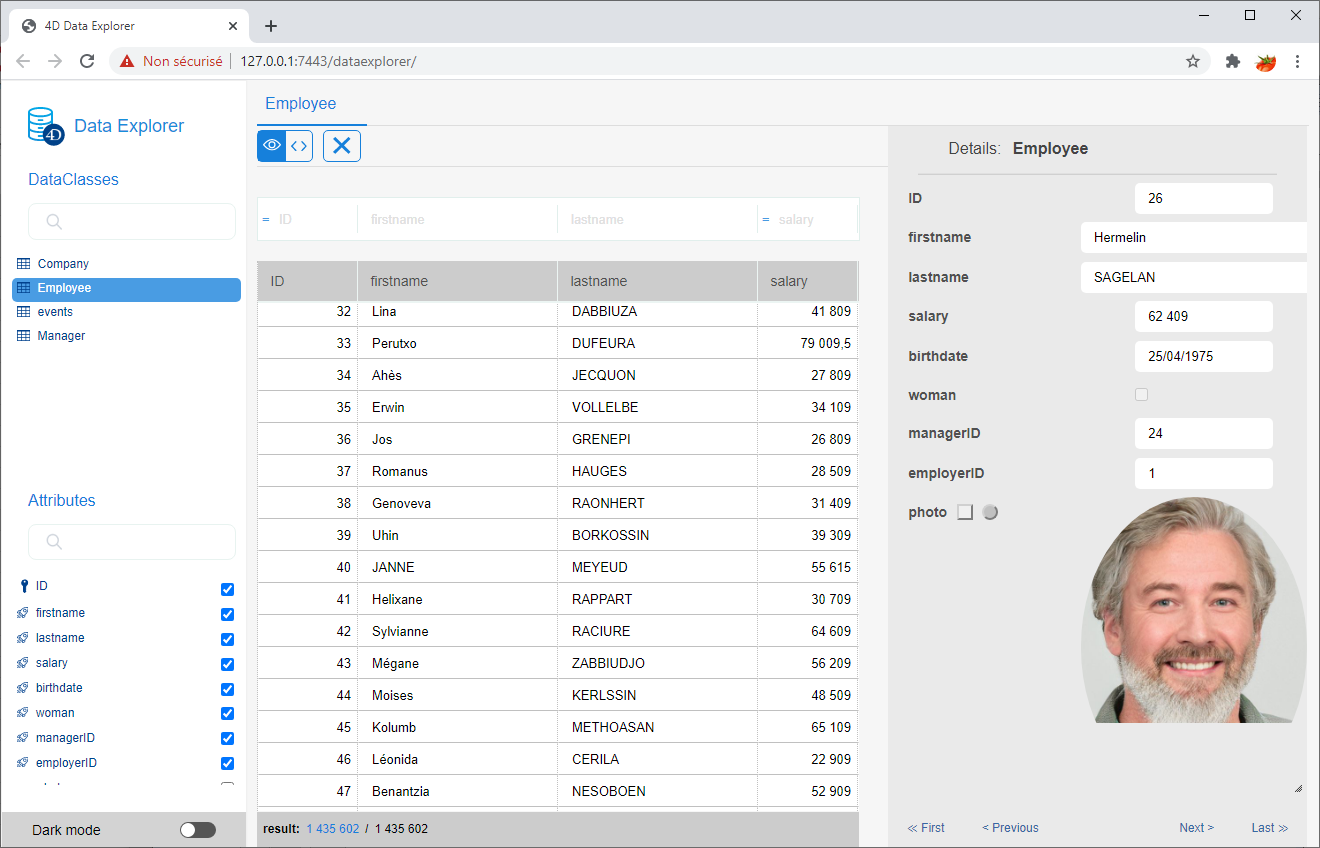
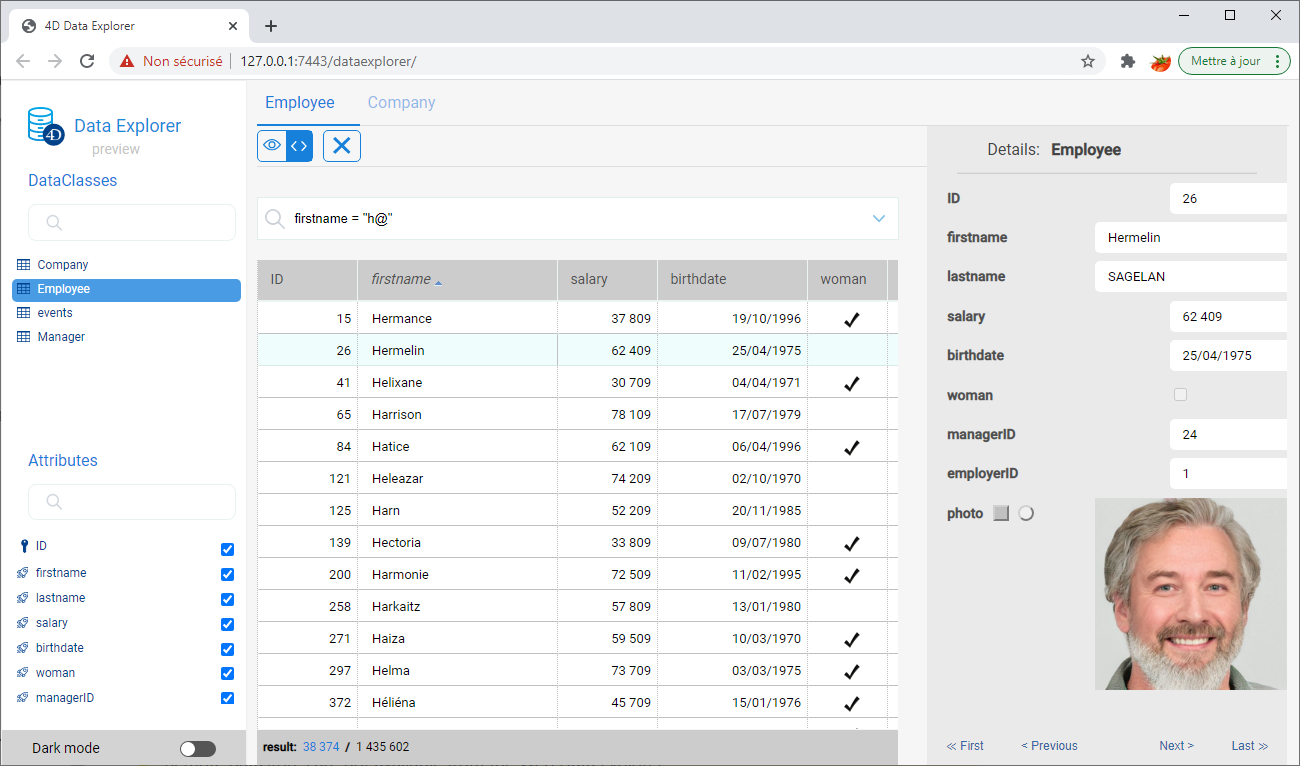
Automated build from branch refs/heads/master

diff --git a/en/Admin/dataExplorer.html b/en/Admin/dataExplorer.html
@@ -1,4 +1,4 @@
-<!DOCTYPE html><html lang="en"><head><meta name="docsearch:version" content="18 R6 BETA"/><meta charSet="utf-8"/><meta http-equiv="X-UA-Compatible" content="IE=edge"/><title>Web Data Explorer · 4D Documentation</title><meta name="viewport" content="width=device-width"/><meta name="generator" content="Docusaurus"/><meta name="description" content="The Data Explorer provides a web interface to view and query data in your project datastore. Using this tool, you can easily browse among all your entities and search, order, or filter attribute values. It helps you to control data and quickly identify issues at any steps of the development process. "/><meta name="docsearch:language" content="en"/><meta property="og:title" content="Web Data Explorer · 4D Documentation"/><meta property="og:type" content="website"/><meta property="og:url" content="https://doc4d.github.io/docs/index.html"/><meta property="og:description" content="The Data Explorer provides a web interface to view and query data in your project datastore. Using this tool, you can easily browse among all your entities and search, order, or filter attribute values. It helps you to control data and quickly identify issues at any steps of the development process. "/><meta property="og:image" content="https://doc4d.github.io/docs/img/logohome.png"/><meta name="twitter:card" content="summary"/><meta name="twitter:image" content="https://doc4d.github.io/docs/img/logohome.png"/><link rel="shortcut icon" href="/docs/img/4d.gif"/><link rel="stylesheet" href="https://cdn.jsdelivr.net/docsearch.js/1/docsearch.min.css"/><link rel="stylesheet" href="//cdnjs.cloudflare.com/ajax/libs/highlight.js/9.12.0/styles/routeros.min.css"/><script type="text/javascript" src="https://code.jquery.com/jquery-3.5.1.min.js"></script><script type="text/javascript" src="/docs/js/comment.js"></script><script type="text/javascript" src="https://buttons.github.io/buttons.js"></script><script type="text/javascript" src="https://buttons.github.io/buttons.js"></script><script type="text/javascript" src="https://cdnjs.cloudflare.com/ajax/libs/clipboard.js/2.0.0/clipboard.min.js"></script><script type="text/javascript" src="/docs/js/code-blocks-buttons.js"></script><script src="/docs/js/scrollSpy.js"></script><link rel="stylesheet" href="/docs/css/main.css"/><script src="/docs/js/codetabs.js"></script></head><body class="sideNavVisible separateOnPageNav"><div class="fixedHeaderContainer"><div class="headerWrapper wrapper"><header><a href="/docs/en"><h2 class="headerTitle">4D Documentation</h2></a><div class="navigationWrapper navigationSlider"><nav class="slidingNav"><ul class="nav-site nav-site-internal"><li class=""><a style="font-weight:bold" href="https://doc4d.github.io/docs" target="_self">v18 R6 BETA</a></li><li class=""><a href="https://doc4d.github.io/docs/Rx" target="_self">v18 R5</a></li><li class=""><a href="https://doc4d.github.io/docs/18" target="_self">v18</a></li><span><li><a id="languages-menu" href="#"><img class="languages-icon" src="/docs/img/language.svg" alt="Languages icon"/>English</a><div id="languages-dropdown" class="hide"><ul id="languages-dropdown-items"><li><a href="/docs/ja/Admin/dataExplorer.html">日本語</a></li><li><a href="/docs/de/Admin/dataExplorer.html">Deutsch</a></li><li><a href="/docs/es/Admin/dataExplorer.html">Español</a></li><li><a href="/docs/fr/Admin/dataExplorer.html">Français</a></li><li><a href="/docs/pt/Admin/dataExplorer.html">Português</a></li></ul></div></li><script>
+<!DOCTYPE html><html lang="en"><head><meta name="docsearch:version" content="18 R6 BETA"/><meta charSet="utf-8"/><meta http-equiv="X-UA-Compatible" content="IE=edge"/><title>Web Data Explorer · 4D Documentation</title><meta name="viewport" content="width=device-width"/><meta name="generator" content="Docusaurus"/><meta name="description" content="&gt; **Preview**: The Web Data Explorer is provided as a preview feature. Using this feature in a production purpose is not recommended; final implementation could be slightly different."/><meta name="docsearch:language" content="en"/><meta property="og:title" content="Web Data Explorer · 4D Documentation"/><meta property="og:type" content="website"/><meta property="og:url" content="https://doc4d.github.io/docs/index.html"/><meta property="og:description" content="&gt; **Preview**: The Web Data Explorer is provided as a preview feature. Using this feature in a production purpose is not recommended; final implementation could be slightly different."/><meta property="og:image" content="https://doc4d.github.io/docs/img/logohome.png"/><meta name="twitter:card" content="summary"/><meta name="twitter:image" content="https://doc4d.github.io/docs/img/logohome.png"/><link rel="shortcut icon" href="/docs/img/4d.gif"/><link rel="stylesheet" href="https://cdn.jsdelivr.net/docsearch.js/1/docsearch.min.css"/><link rel="stylesheet" href="//cdnjs.cloudflare.com/ajax/libs/highlight.js/9.12.0/styles/routeros.min.css"/><script type="text/javascript" src="https://code.jquery.com/jquery-3.5.1.min.js"></script><script type="text/javascript" src="/docs/js/comment.js"></script><script type="text/javascript" src="https://buttons.github.io/buttons.js"></script><script type="text/javascript" src="https://buttons.github.io/buttons.js"></script><script type="text/javascript" src="https://cdnjs.cloudflare.com/ajax/libs/clipboard.js/2.0.0/clipboard.min.js"></script><script type="text/javascript" src="/docs/js/code-blocks-buttons.js"></script><script src="/docs/js/scrollSpy.js"></script><link rel="stylesheet" href="/docs/css/main.css"/><script src="/docs/js/codetabs.js"></script></head><body class="sideNavVisible separateOnPageNav"><div class="fixedHeaderContainer"><div class="headerWrapper wrapper"><header><a href="/docs/en"><h2 class="headerTitle">4D Documentation</h2></a><div class="navigationWrapper navigationSlider"><nav class="slidingNav"><ul class="nav-site nav-site-internal"><li class=""><a style="font-weight:bold" href="https://doc4d.github.io/docs" target="_self">v18 R6 BETA</a></li><li class=""><a href="https://doc4d.github.io/docs/Rx" target="_self">v18 R5</a></li><li class=""><a href="https://doc4d.github.io/docs/18" target="_self">v18</a></li><span><li><a id="languages-menu" href="#"><img class="languages-icon" src="/docs/img/language.svg" alt="Languages icon"/>English</a><div id="languages-dropdown" class="hide"><ul id="languages-dropdown-items"><li><a href="/docs/ja/Admin/dataExplorer.html">日本語</a></li><li><a href="/docs/de/Admin/dataExplorer.html">Deutsch</a></li><li><a href="/docs/es/Admin/dataExplorer.html">Español</a></li><li><a href="/docs/fr/Admin/dataExplorer.html">Français</a></li><li><a href="/docs/pt/Admin/dataExplorer.html">Português</a></li></ul></div></li><script>
         const languagesMenuItem = document.getElementById("languages-menu");
         const languagesDropDown = document.getElementById("languages-dropdown");
         languagesMenuItem.addEventListener("click", function(event) {
@@ -66,11 +66,11 @@
                 };
               }
             });
-        </script></nav></div><div class="container mainContainer docsContainer"><div class="wrapper"><div class="post"><header class="postHeader"><a class="edit-page-link button" href="https://github.com/4D/docs/edit/master/docs/Admin/dataExplorer.md" target="_blank" rel="noreferrer noopener">Edit</a><h1 id="__docusaurus" class="postHeaderTitle">Web Data Explorer</h1></header><article><div><span><p>The Data Explorer provides a web interface to view and query data in your project datastore. Using this tool, you can easily browse among all your entities and search, order, or filter attribute values. It helps you to control data and quickly identify issues at any steps of the development process.</p>
-<p><img src="/docs/assets/en/Admin/dataExplorer1.png" alt="alt-text"></p>
-<blockquote>
-<p>Remote datastores are not available from the Web Data Explorer.</p>
+        </script></nav></div><div class="container mainContainer docsContainer"><div class="wrapper"><div class="post"><header class="postHeader"><a class="edit-page-link button" href="https://github.com/4D/docs/edit/master/docs/Admin/dataExplorer.md" target="_blank" rel="noreferrer noopener">Edit</a><h1 id="__docusaurus" class="postHeaderTitle">Web Data Explorer</h1></header><article><div><span><blockquote>
+<p><strong>Preview</strong>: The Web Data Explorer is provided as a preview feature. Using this feature in a production purpose is not recommended; final implementation could be slightly different.</p>
 </blockquote>
+<p>The Data Explorer provides a web interface to view and query data in your project datastore. Using this tool, you can easily browse among all your entities and search, order, or filter attribute values. It helps you to control data and quickly identify issues at any steps of the development process.</p>
+<p><img src="/docs/assets/en/Admin/dataExplorer1.png" alt="alt-text"></p>
 <h2><a class="anchor" aria-hidden="true" id="access-configuration"></a><a href="#access-configuration" aria-hidden="true" class="hash-link"><svg class="hash-link-icon" aria-hidden="true" height="16" version="1.1" viewBox="0 0 16 16" width="16"><path fill-rule="evenodd" d="M4 9h1v1H4c-1.5 0-3-1.69-3-3.5S2.55 3 4 3h4c1.45 0 3 1.69 3 3.5 0 1.41-.91 2.72-2 3.25V8.59c.58-.45 1-1.27 1-2.09C10 5.22 8.98 4 8 4H4c-.98 0-2 1.22-2 2.5S3 9 4 9zm9-3h-1v1h1c1 0 2 1.22 2 2.5S13.98 12 13 12H9c-.98 0-2-1.22-2-2.5 0-.83.42-1.64 1-2.09V6.25c-1.09.53-2 1.84-2 3.25C6 11.31 7.55 13 9 13h4c1.45 0 3-1.69 3-3.5S14.5 6 13 6z"></path></svg></a>Access Configuration</h2>
 <p>The Data Explorer relies on the <a href="/docs/en/Admin/webAdmin.html"><code>WebAdmin</code></a> web server component for the configuration and authentication settings.</p>
 <ul>
@@ -92,11 +92,12 @@
 <li><p>whether you use a headless 4D application or not, you can open your web browser and enter the following address:</p>
 <p><code>IPaddress:HTTPPort/dataexplorer</code>
 or
-<code>IPaddress:HTTPSPort/dataexplorer</code></p></li>
+<code>IPaddress:HTTPSPort/dataexplorer</code></p>
+<p>In this context, you will be prompted to enter the <a href="/docs/en/Admin/webAdmin.html#access-key">access key</a> to open a <code>WebAdmin</code> session on the server:</p></li>
 </ul>
-<p><a href="/docs/en/Admin/webAdmin.html#http-port">HTTPPort</a> and <a href="/docs/en/Admin/webAdmin.html#https-port">HTTPSPort</a> values are configured in the <code>WebAdmin</code> settings.</p>
+<p><img src="/docs/assets/en/Admin/accessKeyEnter.png" alt="alt-text"></p>
 <blockquote>
-<p>A browser can only be authenticated for one Data Explorer page at a time (because of the session cookie). If you want to work simultaneously with multiple 4D instances on different projects, you must open Data Explorer pages with different browsers or use private browsing.</p>
+<p><a href="/docs/en/Admin/webAdmin.html#http-port">HTTPPort</a> and <a href="/docs/en/Admin/webAdmin.html#https-port">HTTPSPort</a> values are configured in the <code>WebAdmin</code> settings.</p>
 </blockquote>
 <h2><a class="anchor" aria-hidden="true" id="using-the-data-explorer"></a><a href="#using-the-data-explorer" aria-hidden="true" class="hash-link"><svg class="hash-link-icon" aria-hidden="true" height="16" version="1.1" viewBox="0 0 16 16" width="16"><path fill-rule="evenodd" d="M4 9h1v1H4c-1.5 0-3-1.69-3-3.5S2.55 3 4 3h4c1.45 0 3 1.69 3 3.5 0 1.41-.91 2.72-2 3.25V8.59c.58-.45 1-1.27 1-2.09C10 5.22 8.98 4 8 4H4c-.98 0-2 1.22-2 2.5S3 9 4 9zm9-3h-1v1h1c1 0 2 1.22 2 2.5S13.98 12 13 12H9c-.98 0-2-1.22-2-2.5 0-.83.42-1.64 1-2.09V6.25c-1.09.53-2 1.84-2 3.25C6 11.31 7.55 13 9 13h4c1.45 0 3-1.69 3-3.5S14.5 6 13 6z"></path></svg></a>Using the Data Explorer</h2>
 <p>In addition to a comprehensive and customizable view of your data, the Data Explorer allows you to query and order your data.</p>
@@ -106,8 +107,9 @@ or
 <li>Chrome</li>
 <li>Safari</li>
 <li>Edge</li>
+<li>FireFox</li>
 </ul>
-<p>The minimum resolution to use the Data Explorer is 1280x720 dpi. Recommended resolution is 1920x1080 dpi.</p>
+<p>The minimum resolution to use the Data Explorer is 1280x720. Recommended resolution is 1920x1080.</p>
 <h3><a class="anchor" aria-hidden="true" id="basics"></a><a href="#basics" aria-hidden="true" class="hash-link"><svg class="hash-link-icon" aria-hidden="true" height="16" version="1.1" viewBox="0 0 16 16" width="16"><path fill-rule="evenodd" d="M4 9h1v1H4c-1.5 0-3-1.69-3-3.5S2.55 3 4 3h4c1.45 0 3 1.69 3 3.5 0 1.41-.91 2.72-2 3.25V8.59c.58-.45 1-1.27 1-2.09C10 5.22 8.98 4 8 4H4c-.98 0-2 1.22-2 2.5S3 9 4 9zm9-3h-1v1h1c1 0 2 1.22 2 2.5S13.98 12 13 12H9c-.98 0-2-1.22-2-2.5 0-.83.42-1.64 1-2.09V6.25c-1.09.53-2 1.84-2 3.25C6 11.31 7.55 13 9 13h4c1.45 0 3-1.69 3-3.5S14.5 6 13 6z"></path></svg></a>Basics</h3>
 <p>The Data Explorer provides an overall access to the ORDA data model with respect to the <a href="/docs/en/ORDA/dsmapping.html#general-rules">ORDA mapping rules</a>.</p>
 <p>You can switch to the <strong>dark mode</strong> display theme using the selector at the bottom of the page:</p>
@@ -123,7 +125,7 @@ or
 <img src="/docs/assets/en/Admin/dataExplorer4b.png" alt="alt-text"></p></li>
 <li><p>The name of the selected dataclass is added as a tab above the data grid. Using these tabs, you can switch between dataclasses that have been already selected. You can remove a referenced dataclass by clicking the &quot;remove&quot; icon at the right of the dataclass name.</p></li>
 <li><p>You can reduce the number of columns by unchecking attributes in the left side. You can also switch the columns in the data grid using drag and drop. You can click on a column header to <a href="#ordering-entities">sort entities</a> according to its values (when possible).</p></li>
-<li><p>If the loading of dataclass entities requires a long time, a &quot;Loading data&quot; bar is displayed. You can stop the loading at any moment by clicking on the red button, only the loaded entities will be available then:</p></li>
+<li><p>If an operation requires a long time, a progress bar is displayed. You can stop the running operation at any moment by clicking on the red button:</p></li>
 </ul></li>
 </ul>
 <p><img src="/docs/assets/en/Admin/dataExplorer5.png" alt="alt-text"></p>
@@ -186,16 +188,17 @@ All attribute types are displayed, including pictures and objects (expressed in 
 <p>You can enter advanced queries that are not available as attribute queries. For example, if you want to find entities with <em>firstname</em> attribute containing &quot;Jim&quot; but not &quot;Jimmy&quot;, you can write:</p>
 <pre><code class="hljs"><span class="hljs-attr">firstname</span>==<span class="hljs-string">"Jim"</span>
 </code></pre>
-<p>You can use any ORDA query expression as <a href="/docs/en/API/dataclassClass.html#query">documented with the <code>query()</code> function</a>, with the following limitations:</p>
+<p>You can use any ORDA query expression as <a href="/docs/en/API/dataclassClass.html#query">documented with the <code>query()</code> function</a>, with the following limitations or differences:</p>
 <ul>
-<li>for security, you cannot execute formulas using <code>eval()</code>, .</li>
-<li>placeholders cannot be used; you have to write a <em>queryString</em> with values.</li>
+<li>For security, you cannot execute formulas using <code>eval()</code>.</li>
+<li>Placeholders cannot be used; you have to write a <em>queryString</em> with values.</li>
+<li>String values containing space characters must be embedded in double quotes (&quot;&quot;).</li>
 </ul>
 <p>For example, with the Employee dataclass, you can write:</p>
-<pre><code class="hljs"><span class="hljs-attr">firstname</span> = <span class="hljs-string">"M@"</span> AND manager.lastname = <span class="hljs-string">"@th"</span>
+<pre><code class="hljs"><span class="hljs-attr">firstname</span> = <span class="hljs-string">"Marie Sophie"</span> AND manager.lastname = <span class="hljs-string">"@th"</span>
 </code></pre>
-<p>You can click on the <code>v</code> icon to display both <a href="/docs/en/API/dataclassClass.html#queryplan"><code>queryPlan</code></a> and <a href="/docs/en/API/dataclassClass.html#querypath"><code>queryPath</code></a>:</p>
-<p><img src="/docs/assets/en/Admin/dataExplorer10.png" alt="alt-text"></p>
+<p>You can click on the <code>v</code> icon to display both <a href="/docs/en/API/dataclassClass.html#queryplan"><code>queryPlan</code></a> and <a href="/docs/en/API/dataclassClass.html#querypath"><code>queryPath</code></a>. In the area, you can hover over the subquery blocks to have detailed information per subquery:</p>
+<p><img src="/docs/assets/en/Admin/dataExplorer12.png" alt="alt-text"></p>
 <p>Right-click in the query area to display the previous valid queries:</p>
 <p><img src="/docs/assets/en/Admin/dataExplorer11.png" alt="alt-text"></p>
 </span></div></article></div><div class="docs-prevnext"><a class="docs-prev button" href="/docs/en/Admin/webAdmin.html"><span class="arrow-prev">← </span><span>Web Administration</span></a><a class="docs-next button" href="/docs/en/Admin/licenses.html"><span>Managing 4D Licenses</span><span class="arrow-next"> →</span></a></div></div></div><nav class="onPageNav"><ul class="toc-headings"><li><a href="#access-configuration">Access Configuration</a></li><li><a href="#opening-the-data-explorer">Opening the Data Explorer</a></li><li><a href="#using-the-data-explorer">Using the Data Explorer</a><ul class="toc-headings"><li><a href="#requirements">Requirements</a></li><li><a href="#basics">Basics</a></li><li><a href="#updating-contents">Updating contents</a></li><li><a href="#ordering-entities">Ordering entities</a></li><li><a href="#query-on-attributes">Query on attributes</a></li><li><a href="#advanced-queries-with-expression">Advanced queries with expression</a></li></ul></li></ul></nav></div><footer class="nav-footer" id="footer"><section class="sitemap"><a href="https://www.4d.com" class="nav-home"><img src="/docs/img/logohome.png" alt="4D Documentation"/></a><div><h5>Community</h5><a href="https://developer.4D.com">4D Developer Center</a><a href="https://blog.4d.com/">4D Blog</a><a href="https://discuss.4d.com">4D Forum</a><a href="https://www.facebook.com/4Dsoftware/">Facebook</a><a href="https://twitter.com/4Dsoftware">Twitter</a><a href="https://www.youtube.com/user/4Dsoftware">Youtube</a><a href="https://github.com/4D/">GitHub</a></div><div><h5>Support</h5><a href="https://doc.4d.com/">4D Doc Center <i>(Where It All Began)</i></a><a href="http://kb.4d.com/">Knowledge Base</a><a href="https://us.4d.com/product-download">Downloads</a><a href="https://us.4d.com/resources">Resources</a><a href="https://us.4d.com/4d-technical-support">Get Support</a></div><div><h5>Company</h5><a href="https://us.4d.com/about-us">About 4D</a><a href="https://us.4d.com/contact-us">Contact us</a><a href="https://us.4d.com/4d-around-the-world">4D around the world</a><a href="https://us.4d.com/careers">Careers</a></div></section><section class="copyright">© 2021 4D SAS - All rights reserved</section><section class="copyright"><a class="cp2" href="https://us.4d.com/terms-and-conditions">Terms &amp; Conditions</a> | <a class="cp2" href="https://us.4d.com/legal-notices">Legal Notices</a> | <a class="cp2" href="https://us.4d.com/data-policy">Data Policy</a> | <a class="cp2" href="https://us.4d.com/cookies-policy">Cookie Policy</a> | <a class="cp2" href="https://us.4d.com/license">Product license</a></section></footer></div><script type="text/javascript" src="https://cdn.jsdelivr.net/docsearch.js/1/docsearch.min.js"></script><script>

diff --git a/en/API/datastoreClass.html b/en/API/datastoreClass.html
@@ -84,7 +84,7 @@
 <tr><td><a href="#getrequestlog"><strong>.getRequestLog()</strong> : Collection</a><p>    returns the ORDA requests logged in memory on the client side</td></tr>
 <tr><td><a href="#makeselectionsalterable"><strong>.makeSelectionsAlterable()</strong></a><p>    sets all entity selections as alterable by default in the current application datastores</td></tr>
 <tr><td><a href="#providedatakey"><strong>.provideDataKey</strong>( <em>curPassPhrase</em> : Text ) : Object <br><strong>.provideDataKey</strong>( <em>curDataKey</em> : Object ) : Object </a><p>    allows providing a data encryption key for the current data file of the datastore and detects if the key matches the encrypted data</td></tr>
-<tr><td><a href="#setAdminProtection"><strong>.setAdminProtection</strong>( <em>status</em> : Boolean )</a><p>    allows disabling any access to the <a href="/docs/en/Admin/dataExplorer.html">Data Explorer</a> on the <a href="/docs/en/Admin/webAdmin.html#http-port">web admin port</a></td></tr>
+<tr><td><a href="#setAdminProtection"><strong>.setAdminProtection</strong>( <em>status</em> : Boolean )</a><p>    allows disabling any data access on the <a href="/docs/en/Admin/webAdmin.html#http-port">web admin port</a>, including for the <a href="/docs/en/Admin/dataExplorer.html">Data Explorer</a> in <code>WebAdmin</code> sessions</td></tr>
 <tr><td><a href="#startrequestlog"><strong>.startRequestLog</strong>()<br><strong>.startRequestLog</strong>( <em>file</em> : 4D.File )<br><strong>.startRequestLog</strong>( <em>reqNum</em> : Integer )</a><p>    starts the logging of ORDA requests on the client side</td></tr>
 <tr><td><a href="#starttransaction"><strong>.startTransaction()</strong></a><p>    starts a transaction in the current process on the database matching the datastore to which it applies</td></tr>
 <tr><td><a href="#stoprequestlog"><strong>.stopRequestLog()</strong>  </a><p>    stops any logging of ORDA requests on the client side</td></tr>
@@ -584,20 +584,16 @@ On the other hand, using this method in new projects created in 4D v18 R5 and hi
 <tr><th>Parameter</th><th>Type</th><th></th><th>Description</th></tr>
 </thead>
 <tbody>
-<tr><td>status</td><td>Boolean</td><td>-&gt;</td><td>True to disallow Data Explorer access, False (default) to allow access to sessions with <code>WebAdmin</code> privilege</td></tr>
+<tr><td>status</td><td>Boolean</td><td>-&gt;</td><td>True to disable Data Explorer access to data on the <code>webAdmin</code> port, False (default) to grant access</td></tr>
 </tbody>
 </table>
 <h4><a class="anchor" aria-hidden="true" id="description-10"></a><a href="#description-10" aria-hidden="true" class="hash-link"><svg class="hash-link-icon" aria-hidden="true" height="16" version="1.1" viewBox="0 0 16 16" width="16"><path fill-rule="evenodd" d="M4 9h1v1H4c-1.5 0-3-1.69-3-3.5S2.55 3 4 3h4c1.45 0 3 1.69 3 3.5 0 1.41-.91 2.72-2 3.25V8.59c.58-.45 1-1.27 1-2.09C10 5.22 8.98 4 8 4H4c-.98 0-2 1.22-2 2.5S3 9 4 9zm9-3h-1v1h1c1 0 2 1.22 2 2.5S13.98 12 13 12H9c-.98 0-2-1.22-2-2.5 0-.83.42-1.64 1-2.09V6.25c-1.09.53-2 1.84-2 3.25C6 11.31 7.55 13 9 13h4c1.45 0 3-1.69 3-3.5S14.5 6 13 6z"></path></svg></a>Description</h4>
-<p>The <code>.setAdminProtection()</code> function allows disabling any access to the <a href="/docs/en/Admin/dataExplorer.html">Data Explorer</a> on the <a href="/docs/en/Admin/webAdmin.html#http-port">web admin port</a>.</p>
-<p>By default when the function is not called, access to the Data Explorer is always granted on the administration port for a session with <code>WebAdmin</code> privilege. In some configurations, for example when the application server is hosted on a third-party machine, you might not want the administrator to be able to view your data, although they can edit the server configuration, including the <a href="/docs/en/Admin/webAdmin.html#access-key">access key</a> settings.</p>
-<p>In this case, you can call this function to disable the Data Explorer access on the web admin port of the machine, even if the user session has the <code>WebAdmin</code> privilege.</p>
+<p>The <code>.setAdminProtection()</code> function allows disabling any data access on the <a href="/docs/en/Admin/webAdmin.html#http-port">web admin port</a>, including for the <a href="/docs/en/Admin/dataExplorer.html">Data Explorer</a> in <code>WebAdmin</code> sessions.</p>
+<p>By default when the function is not called, access to data is always granted on the web administration port for a session with <code>WebAdmin</code> privilege using the Data Explorer. In some configurations, for example when the application server is hosted on a third-party machine, you might not want the administrator to be able to view your data, although they can edit the server configuration, including the <a href="/docs/en/Admin/webAdmin.html#access-key">access key</a> settings.</p>
+<p>In this case, you can call this function to disable the data access from Data Explorer on the web admin port of the machine, even if the user session has the <code>WebAdmin</code> privilege. When this function is executed, the data file is immediately protected and the status is stored on disk: the data file will be protected even if the application is restarted.</p>
 <h4><a class="anchor" aria-hidden="true" id="example-8"></a><a href="#example-8" aria-hidden="true" class="hash-link"><svg class="hash-link-icon" aria-hidden="true" height="16" version="1.1" viewBox="0 0 16 16" width="16"><path fill-rule="evenodd" d="M4 9h1v1H4c-1.5 0-3-1.69-3-3.5S2.55 3 4 3h4c1.45 0 3 1.69 3 3.5 0 1.41-.91 2.72-2 3.25V8.59c.58-.45 1-1.27 1-2.09C10 5.22 8.98 4 8 4H4c-.98 0-2 1.22-2 2.5S3 9 4 9zm9-3h-1v1h1c1 0 2 1.22 2 2.5S13.98 12 13 12H9c-.98 0-2-1.22-2-2.5 0-.83.42-1.64 1-2.09V6.25c-1.09.53-2 1.84-2 3.25C6 11.31 7.55 13 9 13h4c1.45 0 3-1.69 3-3.5S14.5 6 13 6z"></path></svg></a>Example</h4>
-<p>In the <code>On Server startup</code> database method:</p>
-<pre><code class="hljs css language-4d"><span class="hljs-keyword">If</span>(Application type=4D Server) <span class="hljs-comment">//production</span>
-    ds.<span class="hljs-function">setAdminProtection</span>(<span class="hljs-literal">True</span>) <span class="hljs-comment">//Disables the Data Explorer</span><span class="hljs-keyword">
-Else</span>
-    ds.<span class="hljs-function">setAdminProtection</span>(<span class="hljs-literal">False</span>) <span class="hljs-comment">//Data Explorer granted for webAdmin sessions</span><span class="hljs-keyword">
-End if</span>
+<p>You create a <em>protectDataFile</em> project method to call before deployments for example:</p>
+<pre><code class="hljs css language-4d"> ds.<span class="hljs-function">setAdminProtection</span>(<span class="hljs-literal">True</span>) <span class="hljs-comment">//Disables the Data Explorer data access</span>
 </code></pre>
 <h4><a class="anchor" aria-hidden="true" id="see-also-1"></a><a href="#see-also-1" aria-hidden="true" class="hash-link"><svg class="hash-link-icon" aria-hidden="true" height="16" version="1.1" viewBox="0 0 16 16" width="16"><path fill-rule="evenodd" d="M4 9h1v1H4c-1.5 0-3-1.69-3-3.5S2.55 3 4 3h4c1.45 0 3 1.69 3 3.5 0 1.41-.91 2.72-2 3.25V8.59c.58-.45 1-1.27 1-2.09C10 5.22 8.98 4 8 4H4c-.98 0-2 1.22-2 2.5S3 9 4 9zm9-3h-1v1h1c1 0 2 1.22 2 2.5S13.98 12 13 12H9c-.98 0-2-1.22-2-2.5 0-.83.42-1.64 1-2.09V6.25c-1.09.53-2 1.84-2 3.25C6 11.31 7.55 13 9 13h4c1.45 0 3-1.69 3-3.5S14.5 6 13 6z"></path></svg></a>See also</h4>
 <p><a href="#isadminprotected"><code>.isAdminProtected()</code></a></p>
